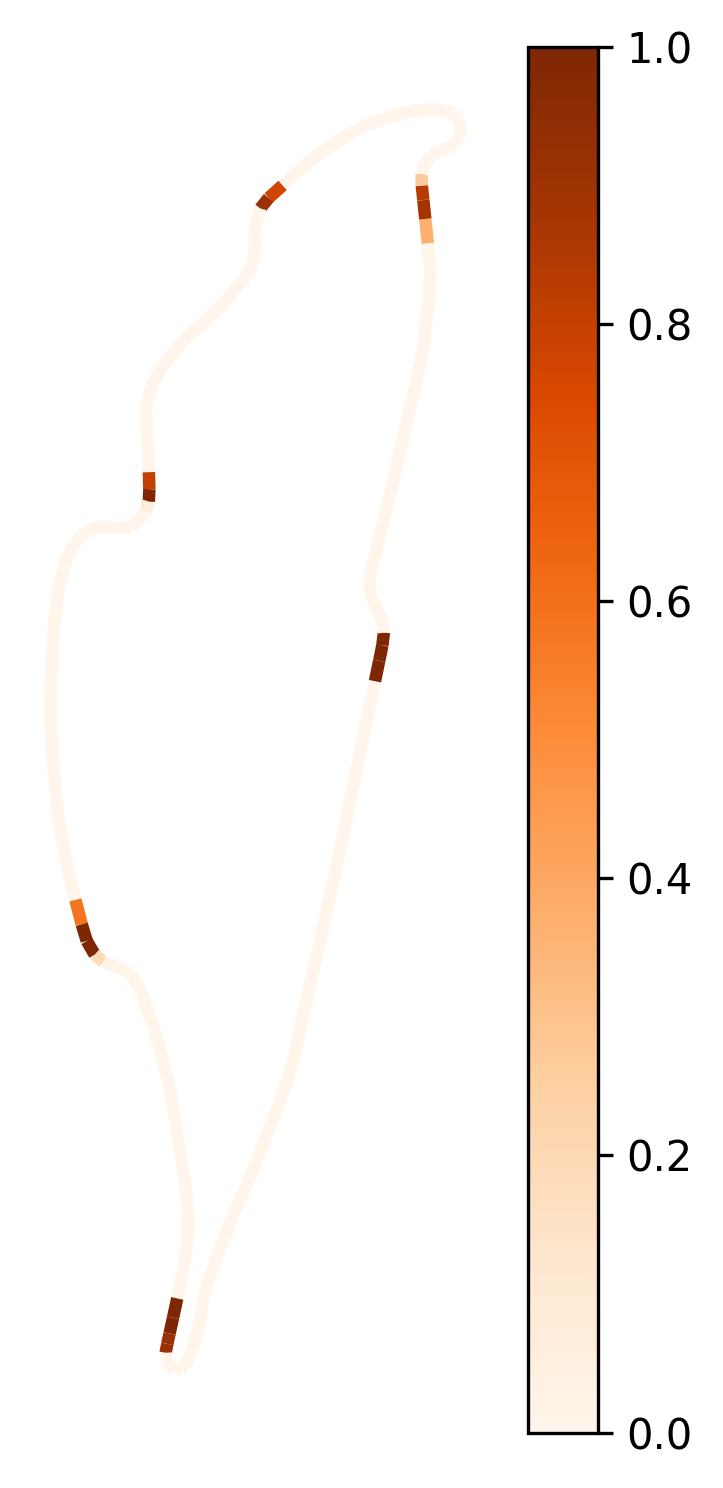
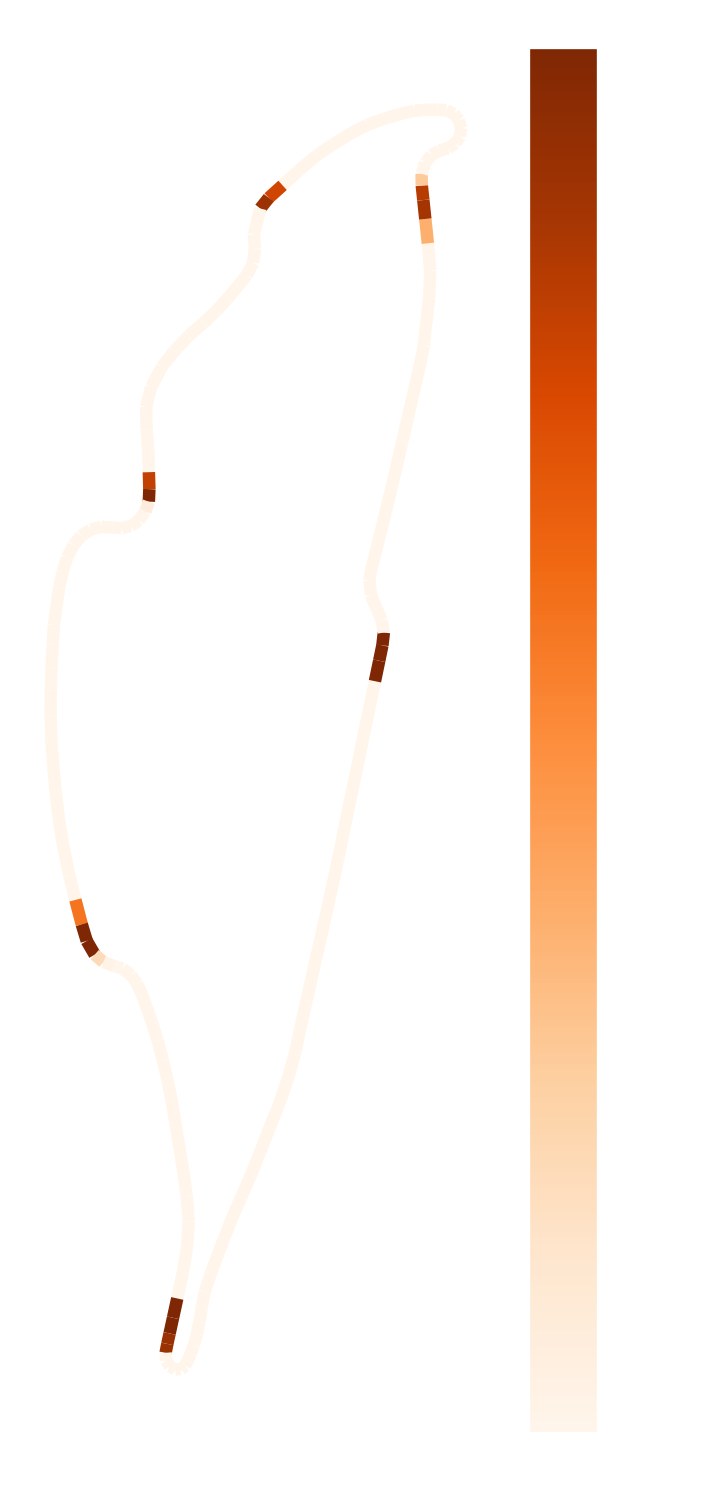
added canva visual art

diff --git a/src/my_testing_space.py b/src/my_testing_space.py
@@ -12,19 +12,16 @@ def make_tele_plot(data, lap_num):
 
     lap_spec_data = data[data["current_lap_num"] == lap_num]
     min_sess_time = lap_spec_data["session_time"].min()
+    max_sess_time = lap_spec_data["session_time"].max()
+    total_sess_time = max_sess_time - min_sess_time
 
-    fig, axs = plt.subplots(3,1,sharex=True)
+    fig, axs = plt.subplots(3,1,sharex=True, figsize=(8,3) )
 
-    axs[0].plot(lap_spec_data["session_time"] - min_sess_time, lap_spec_data["speed_kph"], color = "yellow")
-    axs[0].set_title("_", color = "white")
+    axs[0].plot(((lap_spec_data["session_time"] - min_sess_time)/total_sess_time)*100, lap_spec_data["speed_kph"], color = "yellow")
 
+    axs[1].plot(((lap_spec_data["session_time"] - min_sess_time)/total_sess_time)*100, lap_spec_data["throttle"], color = "red")
 
-    axs[1].plot(lap_spec_data["session_time"] - min_sess_time, lap_spec_data["throttle"], color = "red")
-    axs[1].set_title("_", color = "white")
-
-
-    axs[2].plot(lap_spec_data["session_time"] - min_sess_time, lap_spec_data["brake"], color = "aqua")
-    axs[2].set_title("_", color = "white")
+    axs[2].plot(((lap_spec_data["session_time"] - min_sess_time)/total_sess_time)*100, lap_spec_data["brake"], color = "aqua")
 
 
     # data.plot(x="session_time", y="speed_kph")
@@ -199,38 +196,39 @@ def make_heatmap(data, lap_num):
     fig1, ax1 = plt.subplots(figsize=(4,6))
     line_seg1 = LineCollection(segments, linestyle = 'solid', cmap = "turbo", linewidth = 3)
     line_seg1.set_array(segment_speeds)
-    fig1.colorbar(line_seg1, ax=ax1)
+    cbar1 = fig1.colorbar(line_seg1, ax=ax1)
+    cbar1.ax.tick_params(colors="white")
+    cbar1.outline.set_edgecolor("white")
     # ax1.set_title("Speed heatmap")
     ax1.add_collection(line_seg1)
     ax1.autoscale()
     ax1.axis("off")
-    ax1.xaxis.label.set_color("white")
-    ax1.yaxis.label.set_color("white")
     ax1.set_aspect("equal")
 
     # Throttle map
     fig2, ax2 = plt.subplots(figsize=(4,6))
     line_seg2 = LineCollection(segments, linestyle = 'solid', cmap = "Reds", linewidth = 3)
     line_seg2.set_array(segment_throttle)
-    fig2.colorbar(line_seg2, ax=ax2)
+    cbar2 = fig2.colorbar(line_seg2, ax=ax2)
+    cbar2.ax.tick_params(colors="white")
+    cbar2.outline.set_edgecolor("white")
     # ax2.set_title("Throttle heatmap")
     ax2.add_collection(line_seg2)
     ax2.autoscale()
     ax2.axis("off")
-    ax2.xaxis.label.set_color("white")
-    ax2.yaxis.label.set_color("white")
     ax2.set_aspect("equal")
 
     # Braking Map
     fig3, ax3 = plt.subplots(figsize=(4,6))
     line_seg3 = LineCollection(segments, linestyle = 'solid', cmap = "Oranges", linewidth = 3)
     line_seg3.set_array(segment_brake)
-    fig3.colorbar(line_seg3, ax=ax3)
+    cbar3 = fig3.colorbar(line_seg3, ax=ax3)
+    cbar3.ax.tick_params(colors="white")
+    cbar3.outline.set_edgecolor("white")
     # ax3.set_title("Brake heatmap")
     ax3.add_collection(line_seg3)
     ax3.autoscale()
     ax3.axis("off")
-    ax3.xaxis.label.set_color("white")
     ax3.yaxis.label.set_color("white")
     ax3.set_aspect("equal")
 
@@ -270,6 +268,6 @@ def main():
     lap_number = 4
 
     make_tele_plot(combined_df,lap_number)
-    make_heatmap(combined_df, lap_number)
+    # make_heatmap(combined_df, lap_number)
     
 main()
